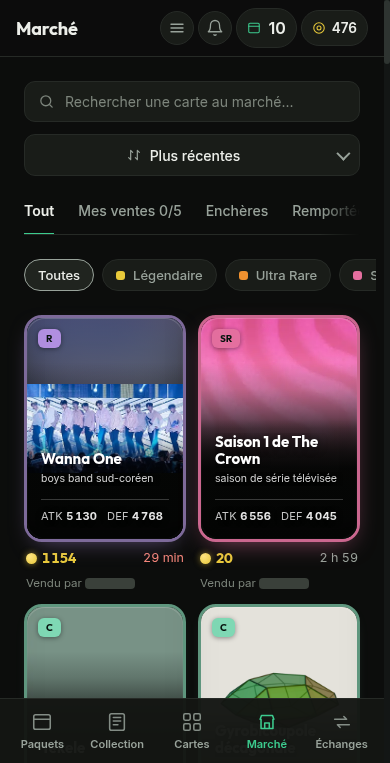
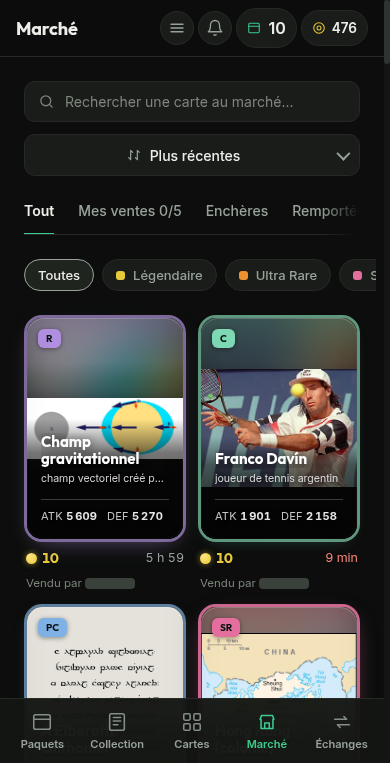
README: the auction panel; screenshot script picks a suitable listing and can shoot a real pack reveal (--pack --show)

diff --git a/README.md b/README.md
@@ -44,6 +44,8 @@ Live bids, your sales and wins, every listing of a card side by side.
 
 ![Market](docs/screenshots/market.png)
 
+![An auction](docs/screenshots/auction.png)
+
 ### Trades
 Both sides as real cards with their value and a verdict; counter-offers as one timeline.
 
